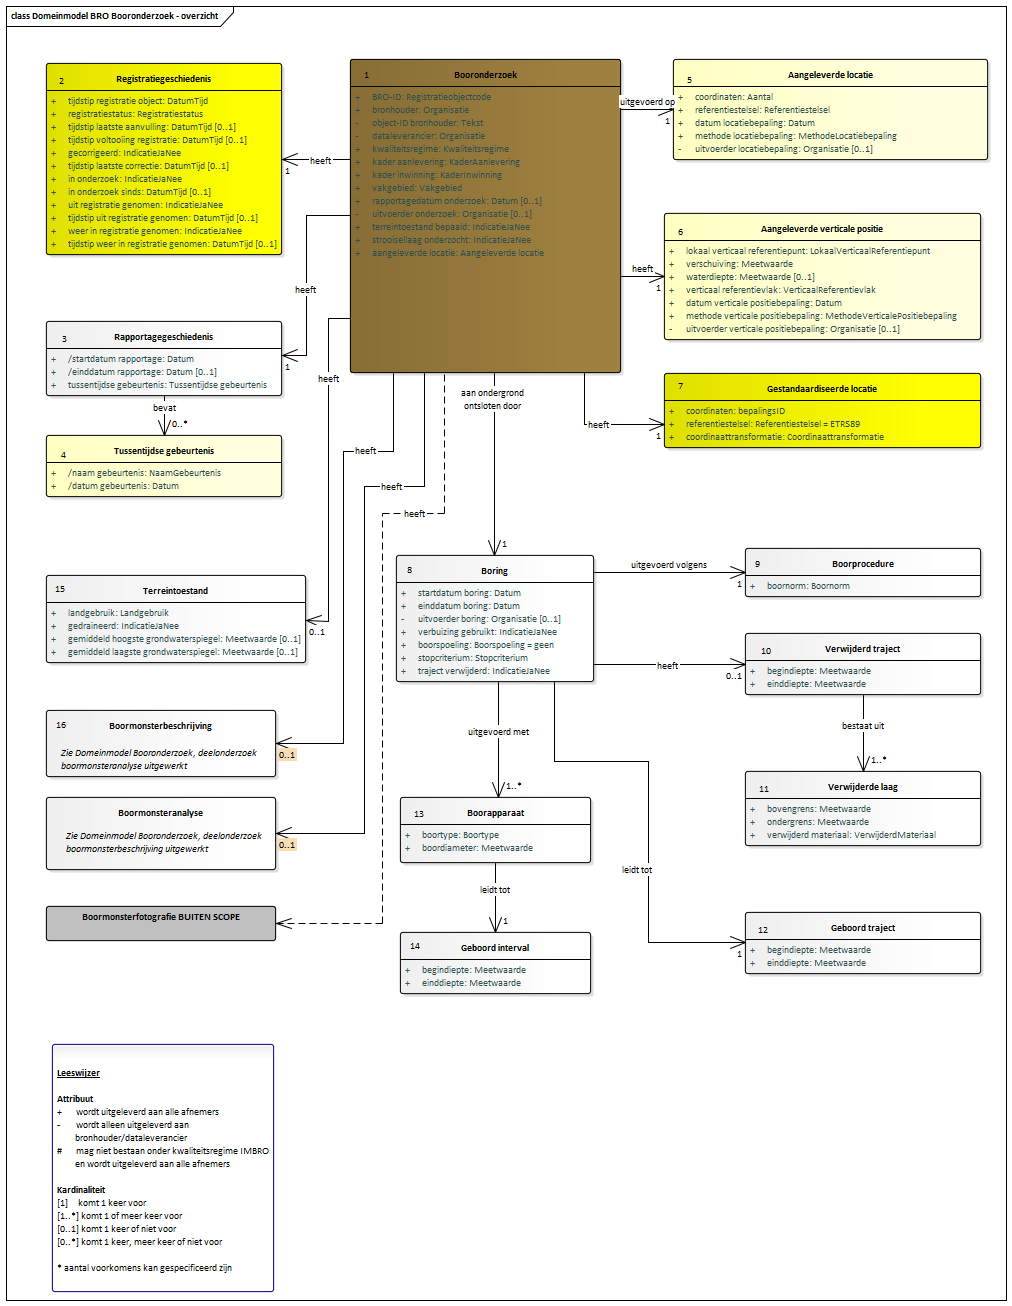
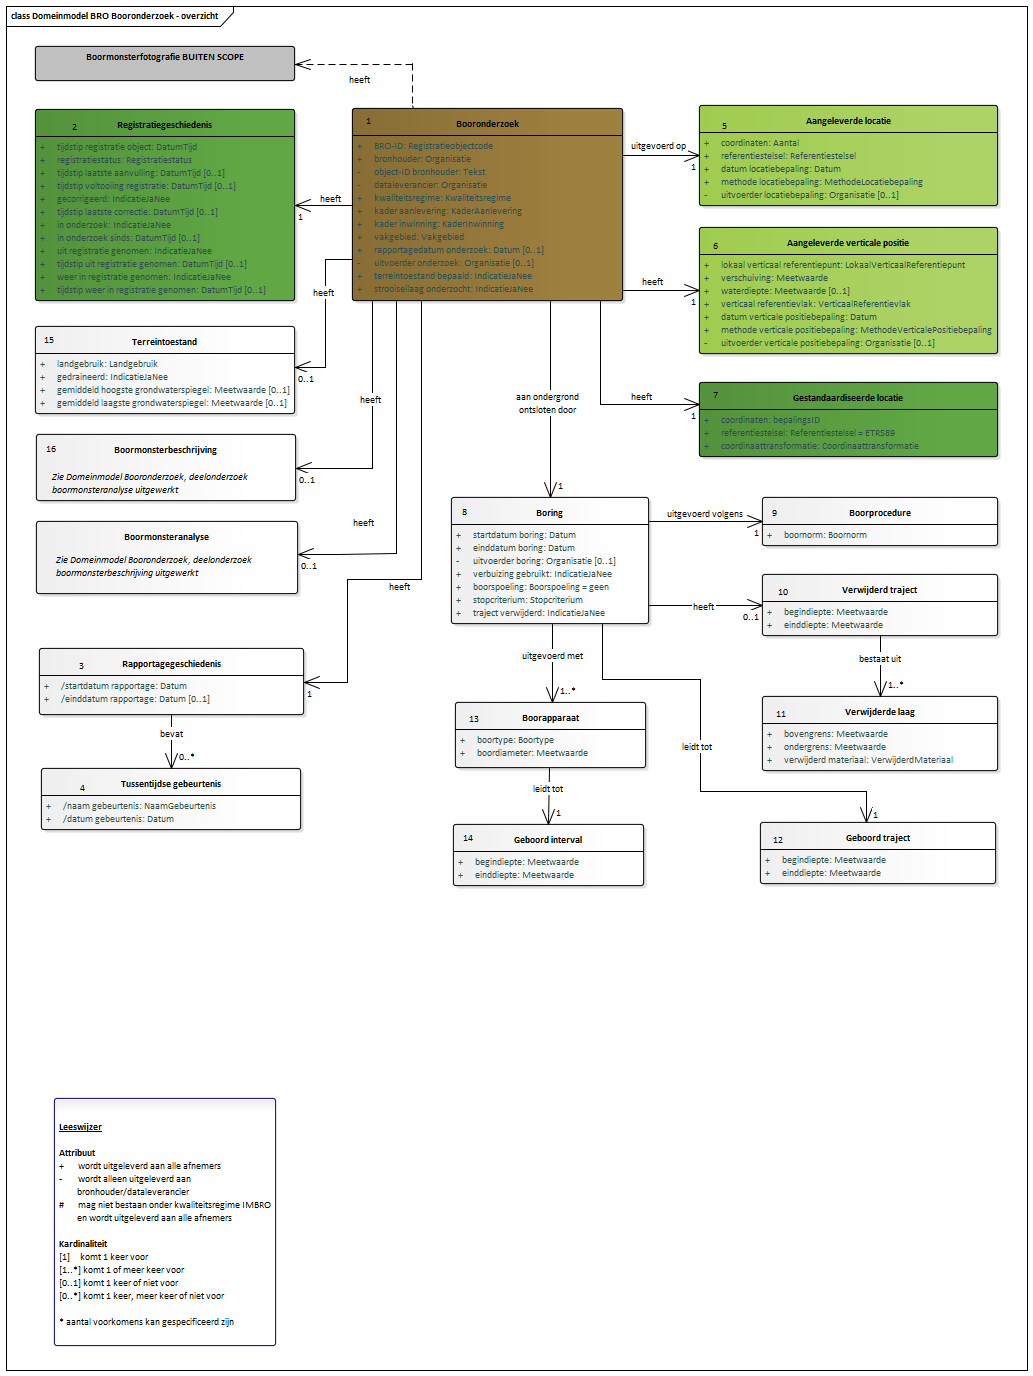
Conceptualmodel-BHR-Pconceptueel-MIM-1.9127november2019-1-20200214-20200303-145848

diff --git a/data/BHR-P-cat.msword.html b/data/BHR-P-cat.msword.html
@@ -13,7 +13,7 @@
    <body>
       <p>Conceptual model/BHR-P conceptueel - MIM/20200214</p>
       <p>Imvertor: 1.59.2</p>
-      <p>Model release: Conceptualmodel-BHR-Pconceptueel-MIM-1.9127november2019-1-20200214-20200303-145533</p>
+      <p>Model release: Conceptualmodel-BHR-Pconceptueel-MIM-1.9127november2019-1-20200214-20200303-145848</p>
       <hr>
       <section>
          <h1>Artikel 1 Definitie van registratieobject, entiteiten en attributen</h1>
@@ -70,20 +70,20 @@
             <h2>Het domeinmodel</h2>
             <section id="">
                <div class="imageinfo overview"><img src="Images/EAID_1C3500F1_E5BB_47e3_9CE1_BB98873D797A.png" usemap="#imagemap-EAID_1C3500F1_E5BB_47e3_9CE1_BB98873D797A" alt="Diagram "><map name="imagemap-EAID_1C3500F1_E5BB_47e3_9CE1_BB98873D797A">
-                     <area shape="rect" alt="Bodemclassificatie" coords="787,47,1075,291" href="#graph_EAID_CFE14268_F08B_4a20_BB74_3FEA8BBA0438">
-                     <area shape="rect" alt="Zuurgraad bodemlaag" coords="710,499,843,579" href="#graph_EAID_20864613_7F9B_4610_9180_7A919D60C45B">
-                     <area shape="rect" alt="Verdeling fijne fractie" coords="998,831,1135,911" href="#graph_EAID_60B04447_7B86_410e_B20F_D3CD115886D1">
-                     <area shape="rect" alt="Onvolledige fractiespecificatie" coords="726,935,924,1023" href="#graph_EAID_2882FB1B_C7C2_467c_AEBB_238330EEBFC0">
-                     <area shape="rect" alt="Fractieverdeling" coords="723,831,927,932" href="#graph_EAID_EF53B14C_3668_4ef9_934A_1FD39F3E0662">
-                     <area shape="rect" alt="Grondsoort" coords="360,831,654,1049" href="#graph_EAID_6335A71B_82D0_48a7_B08B_E14E5233FFFC">
-                     <area shape="rect" alt="Laagcomponent" coords="360,656,654,757" href="#graph_EAID_972B648E_F4A1_4a70_92B9_3383A5DB7706">
-                     <area shape="rect" alt="Vast gesteentelaag" coords="920,492,1140,580" href="#graph_EAID_53169F7B_05E8_438f_A558_2A98EA6E3BDE">
-                     <area shape="rect" alt="Bodemlaag" coords="359,498,653,612" href="#graph_EAID_BAEFD725_0B6B_4084_AB08_BC42F75343BC">
-                     <area shape="rect" alt="Bijzonderheid onderin" coords="791,309,1079,370" href="#graph_EAID_4B2108B5_2549_4222_B1C3_253785E10046">
-                     <area shape="rect" alt="Strooisellaag" coords="35,492,307,606" href="#graph_EAID_53792607_43A9_402c_BCFF_E9A10589D199">
-                     <area shape="rect" alt="Boorprofiel" coords="362,238,652,352" href="#graph_EAID_E066634E_A30B_4f31_9447_9ADBF0419CB4">
-                     <area shape="rect" alt="Boormonsterbeschrijving" coords="358,46,656,160" href="#graph_EAID_697C344A_A1CE_4e19_A1E8_D608CAB8F0B2">
-                     <area shape="rect" alt="Zuurgraad strooisellaag" coords="74,663,268,725" href="#graph_EAID_50D04CCB_A0D6_4ec1_85EB_B23EC6D99A02"></map><p><b>Domeinmodel BRO Bodemkundige boormonsterbeschrijving</b></p>
+                     <area shape="rect" alt="Bodemclassificatie" coords="768,46,1067,280" href="#graph_EAID_CFE14268_F08B_4a20_BB74_3FEA8BBA0438">
+                     <area shape="rect" alt="Zuurgraad bodemlaag" coords="711,467,844,547" href="#graph_EAID_20864613_7F9B_4610_9180_7A919D60C45B">
+                     <area shape="rect" alt="Verdeling fijne fractie" coords="981,818,1118,898" href="#graph_EAID_60B04447_7B86_410e_B20F_D3CD115886D1">
+                     <area shape="rect" alt="Onvolledige fractiespecificatie" coords="726,917,924,1005" href="#graph_EAID_2882FB1B_C7C2_467c_AEBB_238330EEBFC0">
+                     <area shape="rect" alt="Fractieverdeling" coords="723,814,926,902" href="#graph_EAID_EF53B14C_3668_4ef9_934A_1FD39F3E0662">
+                     <area shape="rect" alt="Grondsoort" coords="361,814,655,1005" href="#graph_EAID_6335A71B_82D0_48a7_B08B_E14E5233FFFC">
+                     <area shape="rect" alt="Laagcomponent" coords="361,636,655,737" href="#graph_EAID_972B648E_F4A1_4a70_92B9_3383A5DB7706">
+                     <area shape="rect" alt="Vast gesteentelaag" coords="898,470,1118,558" href="#graph_EAID_53169F7B_05E8_438f_A558_2A98EA6E3BDE">
+                     <area shape="rect" alt="Bodemlaag" coords="361,470,655,558" href="#graph_EAID_BAEFD725_0B6B_4084_AB08_BC42F75343BC">
+                     <area shape="rect" alt="Bijzonderheid onderin" coords="768,334,1067,395" href="#graph_EAID_4B2108B5_2549_4222_B1C3_253785E10046">
+                     <area shape="rect" alt="Strooisellaag" coords="35,470,308,569" href="#graph_EAID_53792607_43A9_402c_BCFF_E9A10589D199">
+                     <area shape="rect" alt="Boorprofiel" coords="367,263,657,377" href="#graph_EAID_E066634E_A30B_4f31_9447_9ADBF0419CB4">
+                     <area shape="rect" alt="Boormonsterbeschrijving" coords="364,46,658,161" href="#graph_EAID_697C344A_A1CE_4e19_A1E8_D608CAB8F0B2">
+                     <area shape="rect" alt="Zuurgraad strooisellaag" coords="75,656,269,718" href="#graph_EAID_50D04CCB_A0D6_4ec1_85EB_B23EC6D99A02"></map><p><b>Domeinmodel BRO Bodemkundige boormonsterbeschrijving</b></p>
                </div>
                <div class="imageinfo overview"><img src="Images/EAID_6383BFB7_B0C0_44d9_9C7F_929703659479.png" usemap="#imagemap-EAID_6383BFB7_B0C0_44d9_9C7F_929703659479" alt="Diagram "><map name="imagemap-EAID_6383BFB7_B0C0_44d9_9C7F_929703659479">
                      <area shape="rect" alt="Bepaling waterretentie stapsgewijs" coords="37,769,278,1000" href="#graph_EAID_41CDAA8E_37BA_4dbe_843B_C18C720DC286">
@@ -96,23 +96,23 @@
                      <area shape="rect" alt="Onderzocht interval" coords="280,216,506,344" href="#graph_EAID_E03DABD7_D5A7_43b1_8E45_22FE722A3256"></map><p><b>Bodemkundige boormonsteranalyse deel 1</b></p>
                </div>
                <div class="imageinfo overview"><img src="Images/EAID_D6588CC3_0108_4b72_8419_F2C7022F9A9E.png" usemap="#imagemap-EAID_D6588CC3_0108_4b72_8419_F2C7022F9A9E" alt="Diagram "><map name="imagemap-EAID_D6588CC3_0108_4b72_8419_F2C7022F9A9E">
-                     <area shape="rect" alt="Gestandaardiseerde locatie" coords="664,373,981,448" href="#graph_EAID_4D17BE34_0DFD_4a20_9A39_F437E781D80F">
-                     <area shape="rect" alt="Aangeleverde verticale positie" coords="664,213,981,340" href="#graph_EAID_5B6EEAEE_FAAF_4ab9_9D33_709559A9E297">
-                     <area shape="rect" alt="Aangeleverde locatie" coords="673,59,988,160" href="#graph_EAID_C81072B6_E99D_435f_9E4C_B1D5FED530D4">
-                     <area shape="rect" alt="Geboord traject" coords="745,912,981,974" href="#graph_EAID_BCE4FB50_EC8B_4ebc_BA2F_AED708915459">
-                     <area shape="rect" alt="Verwijderde laag" coords="745,771,981,846" href="#graph_EAID_4F931859_A209_48c8_95B4_EF48947342D4">
-                     <area shape="rect" alt="Verwijderd traject" coords="745,633,981,695" href="#graph_EAID_9CAAE4E0_1030_4145_8BA6_E7E82C1A81D3">
-                     <area shape="rect" alt="Boorprocedure" coords="745,548,981,597" href="#graph_EAID_BC5BEC9E_1CD9_400e_931D_D3328E315CAA">
-                     <area shape="rect" alt="Terreintoestand" coords="46,575,306,663" href="#graph_EAID_AF1FFED2_C283_48d3_BB6D_22F3F876045D">
-                     <area shape="rect" alt="Geboord interval" coords="400,932,591,994" href="#graph_EAID_7A51F6B2_4675_47d0_849C_BCE1853C65CF">
-                     <area shape="rect" alt="Boorapparaat" coords="400,797,591,863" href="#graph_EAID_F4D931C9_4668_4a29_94E7_347B9C7D4AFC">
-                     <area shape="rect" alt="Boring" coords="396,555,594,682" href="#graph_EAID_EEB4A074_34DE_4020_8995_D8081DCBBB6C">
-                     <area shape="rect" alt="Tussentijdse gebeurtenis" coords="46,435,282,497" href="#graph_EAID_648ED0D8_FACD_42e6_9C8A_648C6F5E0DA8">
-                     <area shape="rect" alt="Rapportagegeschiedenis" coords="46,321,282,396" href="#graph_EAID_6C31CE0B_20BC_4ca1_9BFA_C6D0EF8B7476">
-                     <area shape="rect" alt="Boormonsterbeschrijving" coords="46,710,276,777" href="#graph_EAID_697C344A_A1CE_4e19_A1E8_D608CAB8F0B2">
-                     <area shape="rect" alt="Registratiegeschiedenis" coords="46,63,282,255" href="#graph_EAID_8505883D_9F95_4151_9381_E70B2B7F19DE">
-                     <area shape="rect" alt="Boormonsteranalyse" coords="46,797,276,870" href="#graph_EAID_C497D0C8_A7FC_4280_82C3_3C866CAA23AB">
-                     <area shape="rect" alt="Booronderzoek" coords="350,59,621,373" href="#graph_EAID_767F438F_1014_47bc_BBDC_98606932693D"></map><p><b>Domeinmodel BRO Booronderzoek</b></p>
+                     <area shape="rect" alt="Gestandaardiseerde locatie" coords="699,382,998,457" href="#graph_EAID_4D17BE34_0DFD_4a20_9A39_F437E781D80F">
+                     <area shape="rect" alt="Aangeleverde verticale positie" coords="699,227,998,354" href="#graph_EAID_5B6EEAEE_FAAF_4ab9_9D33_709559A9E297">
+                     <area shape="rect" alt="Aangeleverde locatie" coords="699,105,998,206" href="#graph_EAID_C81072B6_E99D_435f_9E4C_B1D5FED530D4">
+                     <area shape="rect" alt="Geboord traject" coords="760,822,996,884" href="#graph_EAID_BCE4FB50_EC8B_4ebc_BA2F_AED708915459">
+                     <area shape="rect" alt="Verwijderde laag" coords="762,696,998,771" href="#graph_EAID_4F931859_A209_48c8_95B4_EF48947342D4">
+                     <area shape="rect" alt="Verwijderd traject" coords="762,574,998,636" href="#graph_EAID_9CAAE4E0_1030_4145_8BA6_E7E82C1A81D3">
+                     <area shape="rect" alt="Boorprocedure" coords="762,497,998,546" href="#graph_EAID_BC5BEC9E_1CD9_400e_931D_D3328E315CAA">
+                     <area shape="rect" alt="Terreintoestand" coords="35,326,295,414" href="#graph_EAID_AF1FFED2_C283_48d3_BB6D_22F3F876045D">
+                     <area shape="rect" alt="Geboord interval" coords="453,824,644,886" href="#graph_EAID_7A51F6B2_4675_47d0_849C_BCE1853C65CF">
+                     <area shape="rect" alt="Boorapparaat" coords="455,702,646,768" href="#graph_EAID_F4D931C9_4668_4a29_94E7_347B9C7D4AFC">
+                     <area shape="rect" alt="Boring" coords="451,497,649,624" href="#graph_EAID_EEB4A074_34DE_4020_8995_D8081DCBBB6C">
+                     <area shape="rect" alt="Tussentijdse gebeurtenis" coords="41,768,301,830" href="#graph_EAID_648ED0D8_FACD_42e6_9C8A_648C6F5E0DA8">
+                     <area shape="rect" alt="Rapportagegeschiedenis" coords="39,648,304,715" href="#graph_EAID_6C31CE0B_20BC_4ca1_9BFA_C6D0EF8B7476">
+                     <area shape="rect" alt="Boormonsterbeschrijving" coords="36,434,296,501" href="#graph_EAID_697C344A_A1CE_4e19_A1E8_D608CAB8F0B2">
+                     <area shape="rect" alt="Registratiegeschiedenis" coords="35,109,295,301" href="#graph_EAID_8505883D_9F95_4151_9381_E70B2B7F19DE">
+                     <area shape="rect" alt="Boormonsteranalyse" coords="36,521,298,594" href="#graph_EAID_C497D0C8_A7FC_4280_82C3_3C866CAA23AB">
+                     <area shape="rect" alt="Booronderzoek" coords="352,108,623,301" href="#graph_EAID_767F438F_1014_47bc_BBDC_98606932693D"></map><p><b>Domeinmodel BRO Booronderzoek</b></p>
                </div>
             </section>
          </section>
